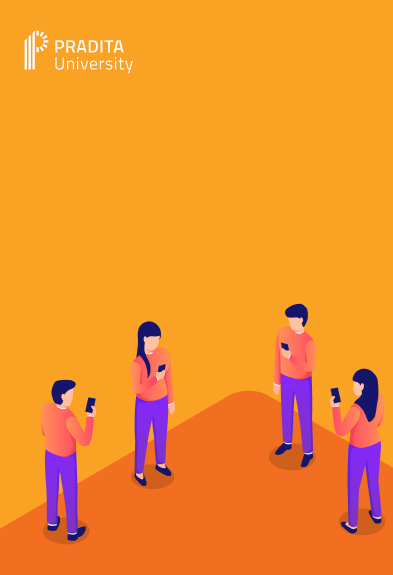
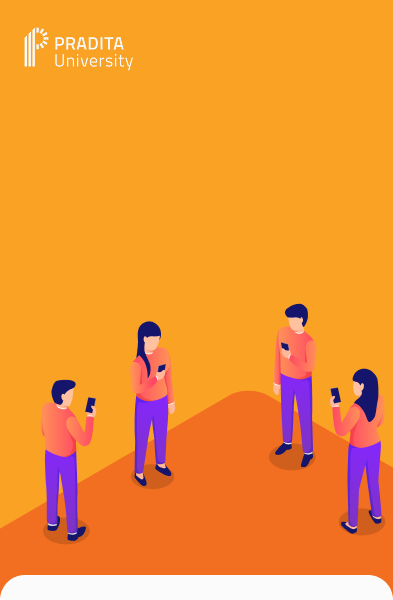
gas bikin home yok

Changed region(s): [[0.0, 0.5026, 1.0, 1.0], [0.0611, 0.0296, 0.3359, 0.1183]]

diff --git a/kubik/resources/views/user/onboarding/screen3.blade.php b/kubik/resources/views/user/onboarding/screen3.blade.php
@@ -12,7 +12,7 @@
     <!-- CARD -->
     <div class="bg-white w-full rounded-t-[32px] mt-3 pt-10 pb-16 px-6 text-center">
 
-        <h1 class="text-2xl font-semibold text-[#2A2A2A] leading-snug">
+        <h1 class="text-2xl font-semibold text-[#F26E21] leading-snug">
             Sign Up or Log In to Get Started!
         </h1>
 

diff --git a/kubik/resources/views/user/onboarding/screen2.blade.php b/kubik/resources/views/user/onboarding/screen2.blade.php
@@ -11,7 +11,7 @@
     <!-- CARD -->
     <div class="bg-white w-full rounded-t-[32px] mt-3 pt-10 pb-16 px-6 text-center">
 
-        <h1 class="text-2xl font-semibold text-[#2A2A2A] leading-snug">
+        <h1 class="text-2xl font-semibold text-[#F26E21] leading-snug">
             Request & Schedule Your Needs
         </h1>
 

diff --git a/kubik/resources/views/user/onboarding/screen1.blade.php b/kubik/resources/views/user/onboarding/screen1.blade.php
@@ -12,7 +12,7 @@
     <!-- CARD -->
     <div class="bg-white w-full rounded-t-[32px] mt-3 pt-10 pb-16 px-6 text-center">
 
-        <h1 class="text-2xl font-semibold text-[#2A2A2A] leading-snug">
+        <h1 class="text-2xl font-semibold text-[#F26E21] leading-snug">
             Use your loans responsibly.
         </h1>
 

diff --git a/kubik/resources/views/user/layout/mobile.blade.php b/kubik/resources/views/user/layout/mobile.blade.php
@@ -18,7 +18,7 @@
             max-width: 430px;
             height: 932px;
             margin: 0 auto;
-            background: #ffffff;
+            background: #FBFBFB;
             padding: 32px 24px;
         }
 
